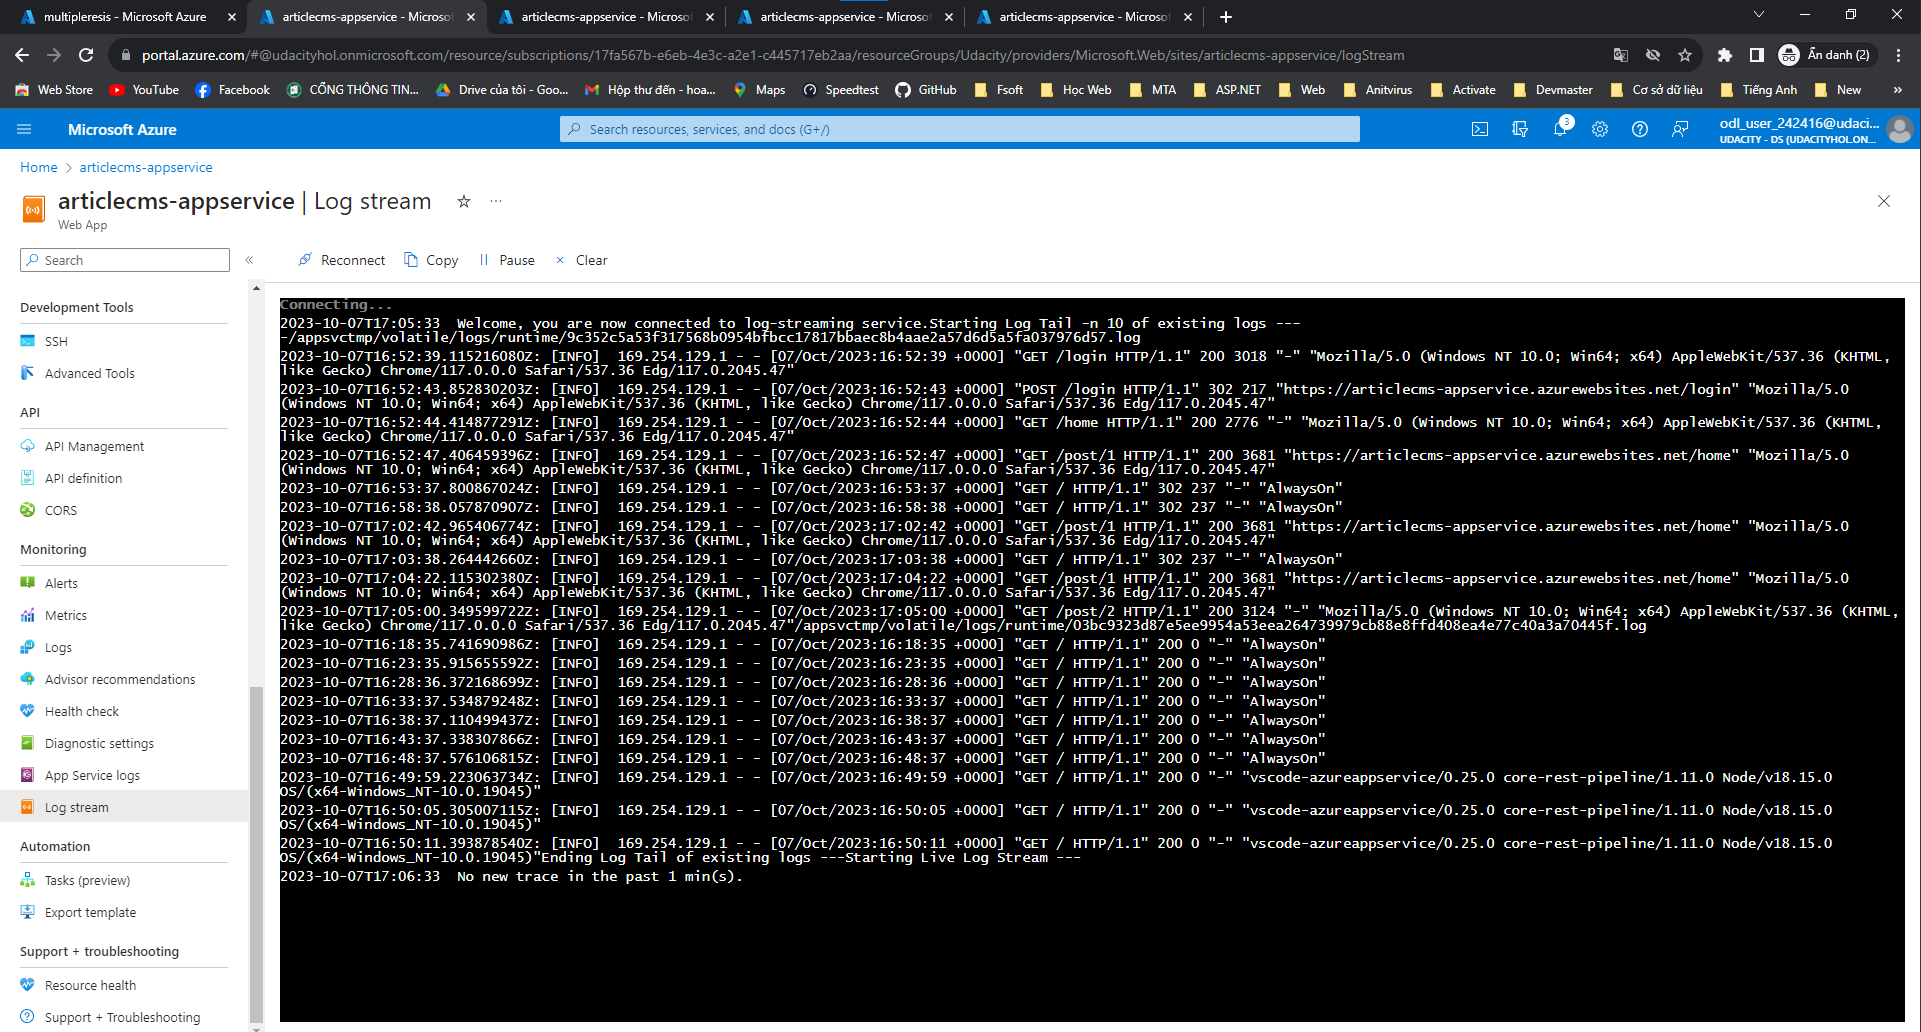
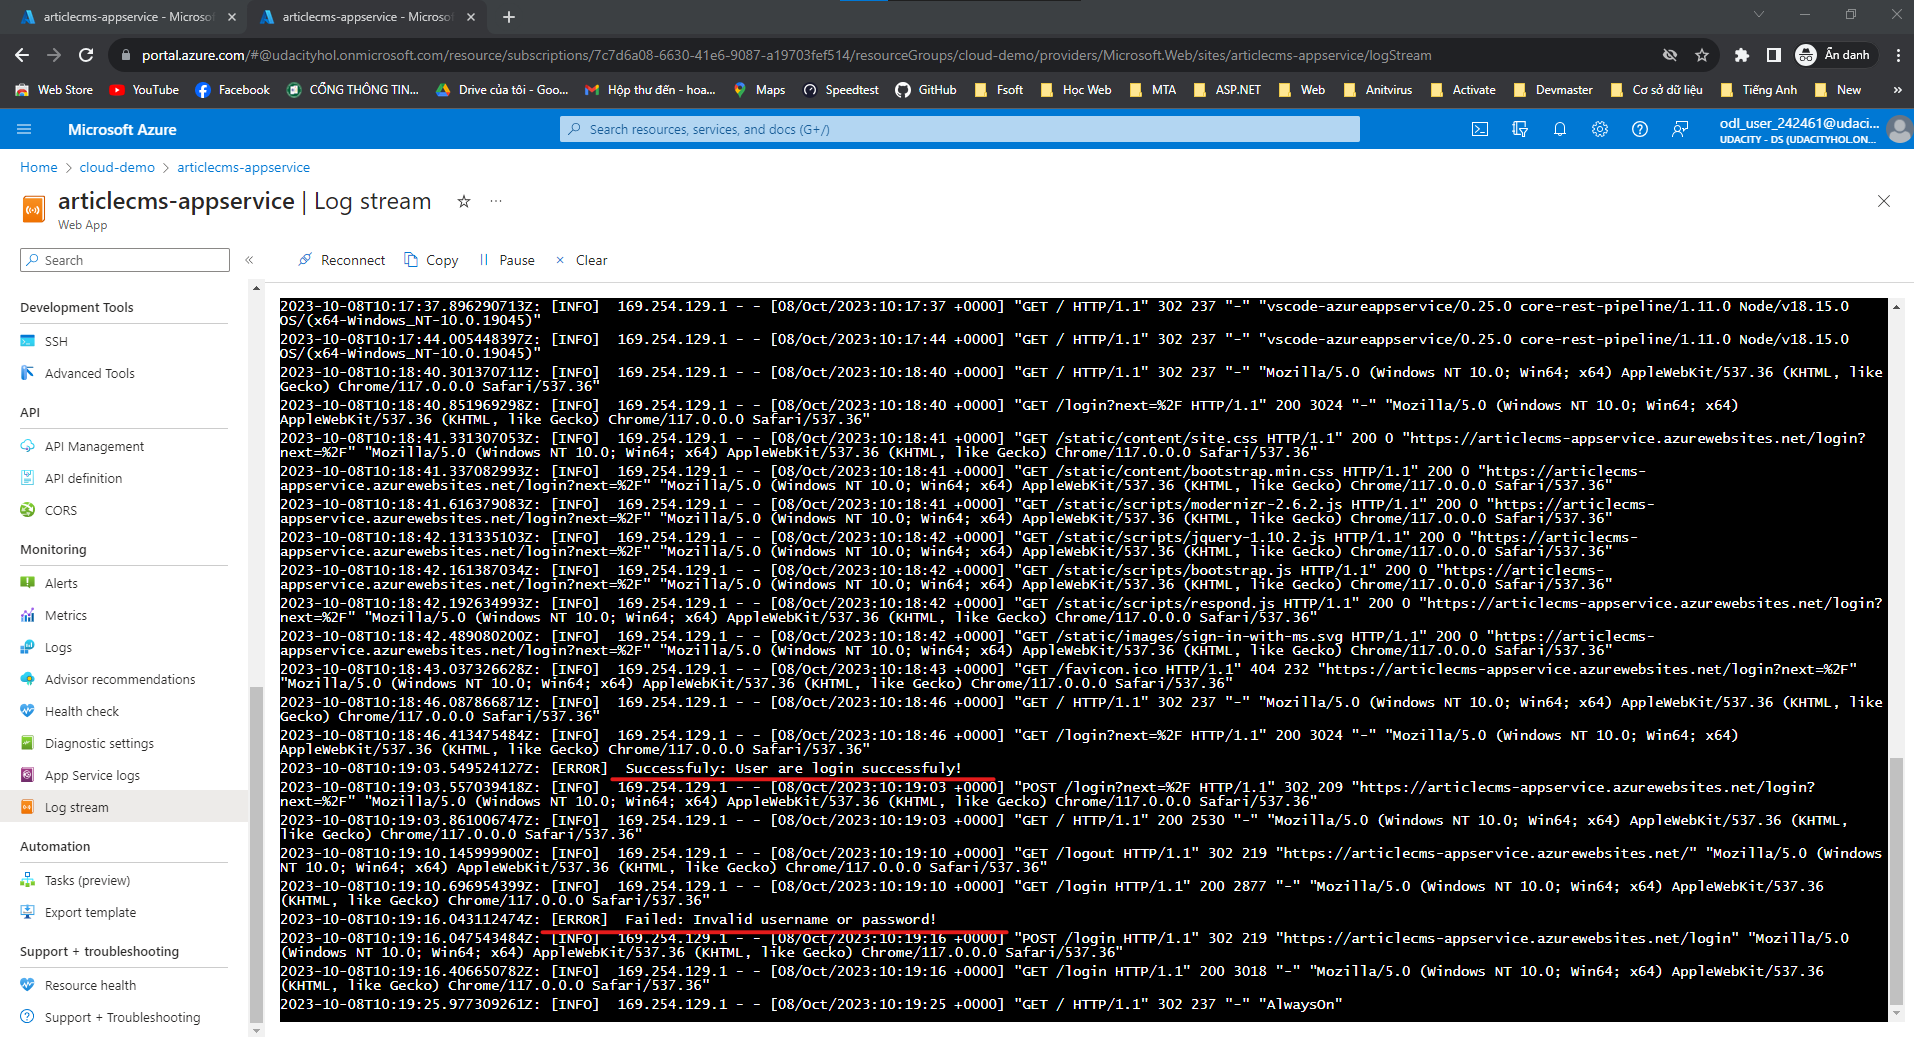
Update log and WRITEUP.md

diff --git a/config.py b/config.py
@@ -19,7 +19,7 @@ class Config(object):
 
     ### Info for MS Authentication ###
     ### As adapted from: https://github.com/Azure-Samples/ms-identity-python-webapp ###
-    CLIENT_SECRET = "jwp8Q~5bPdVPAO6RnMp-S3lU4tRFq7YmDOgyJbA5"
+    CLIENT_SECRET = "5Bl8Q~NQH15wAqh2mU1F~kKL6b_fX1NEgewT1cKa"
     # In your production app, Microsoft recommends you to use other ways to store your secret,
     # such as KeyVault, or environment variable as described in Flask's documentation here:
     # https://flask.palletsprojects.com/en/1.1.x/config/#configuring-from-environment-variables
@@ -30,7 +30,7 @@ class Config(object):
     AUTHORITY = "https://login.microsoftonline.com/common"  # For multi-tenant app, else put tenant name
     # AUTHORITY = "https://login.microsoftonline.com/Enter_the_Tenant_Name_Here"
 
-    CLIENT_ID = "4e4e1c3d-05ea-44bf-bb1d-073b665ff4db"
+    CLIENT_ID = "6e2294d6-a09d-4125-b612-57eb8f7ac4ae"
 
     REDIRECT_PATH = "/getAToken"  # Used to form an absolute URL; must match to app's redirect_uri set in AAD
 

diff --git a/FlaskWebProject/views.py b/FlaskWebProject/views.py
@@ -70,6 +70,7 @@ def login():
             app.logger.warning ('Failed: Invalid username or password!')
             return redirect(url_for('login'))
         login_user(user, remember=form.remember_me.data)
+        app.logger.info('Successfuly: User are login successfuly!')
         next_page = request.args.get('next')
         if not next_page or url_parse(next_page).netloc != '':
             next_page = url_for('home')

diff --git a/WRITEUP.md b/WRITEUP.md
@@ -13,7 +13,16 @@
             Region: West US, Operating system: Windows, Tier: Basic
             INSTANCE: B1: 1 Cores(s), 1.75 GB RAM, 10 GB Storage, $0.075 and used 730 hours
             No SSL Connections
-    
+
+    Scalability:
+        App Services can dynamic scaling without config manual, when use VM, you have to config manually and manage scaling .
+
+    Availability:
+        App Service and VM can both provide high availability. App Service is build-in feature and dynamic. VM requires properly configured and management.
+
+    Workflow:  
+        You have more control and config about the underlying infrastructure with VM. With App Service, you can focus more on the application code and it's simpler.
+
 - *Choose the appropriate solution (VM or App Service) for deploying the app*
 - *Justify your choice*
     I choose App Service for my project CMS app because this is uncomplicated and lightweight cms app. Furthermore, App Service offers a more cost-effective solution in my case and i don't need to control and config about the underlying infrastructure.
